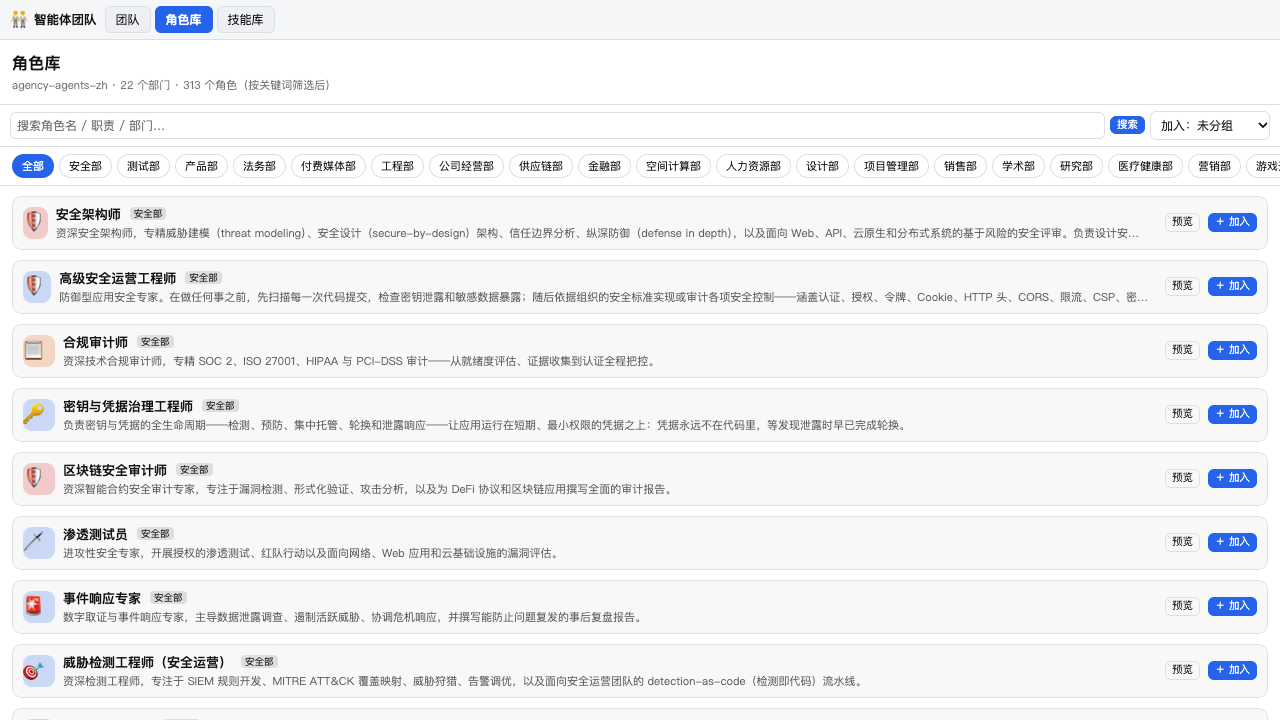
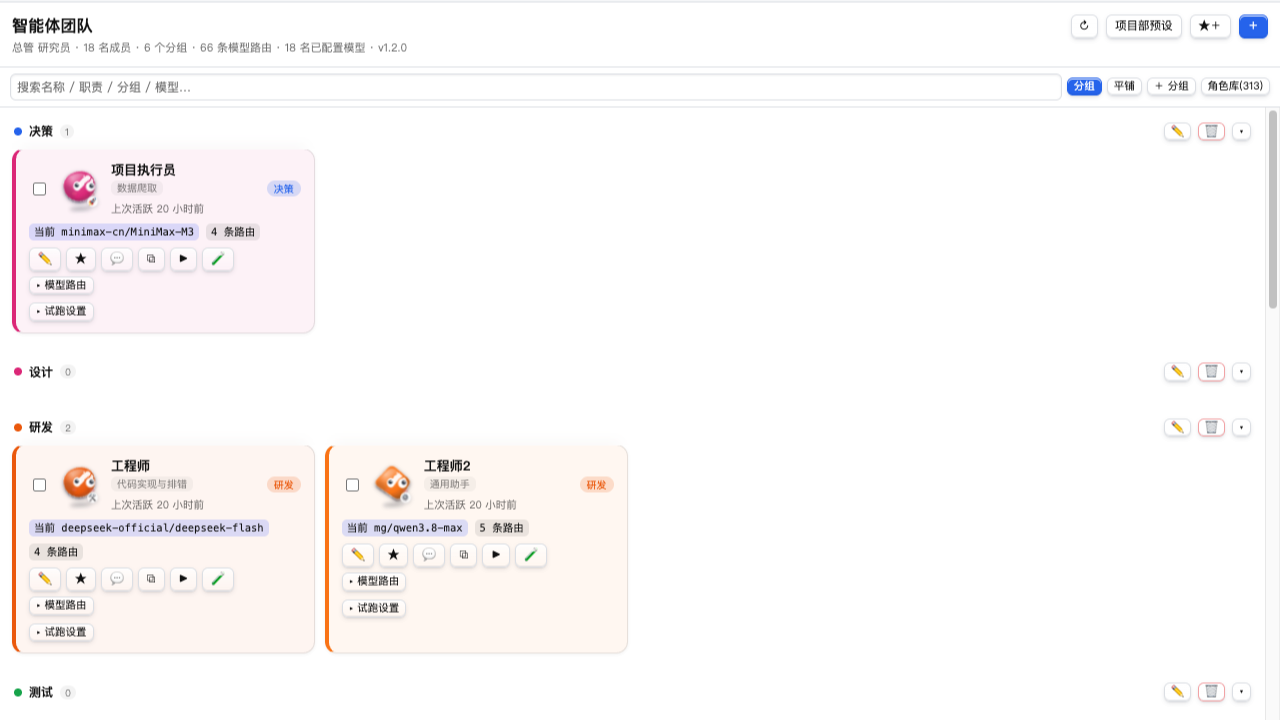
release: 2.55.1 — 市场协议字段 dsh.client.inject + 截图刷新

diff --git a/dsh/team.js b/dsh/team.js
@@ -60,7 +60,7 @@ const TRIGGER_DEFAULTS = { enabled: true, keywords: ['项目'], member: '' }
  *   看起来像装了另一个包——smoke-client.mjs 现在有断言把两者钉在一起。） */
 // 必须与 package.json 的 version 一致；scripts/smoke-client.mjs 会断言这一点，
 // 改了版本号忘改这里会直接冒烟失败（1.0.0 时就踩过一次）。
-const PLUGIN_VERSION = '2.55.0'
+const PLUGIN_VERSION = '2.55.1'
 
 /** 路由前缀。 */
 export const ROUTE_BASE = '/api/team-workbench'

diff --git a/README.md b/README.md
@@ -2,7 +2,7 @@
 
 一个 **DSH 网页客户端插件**（`dsh.client.platform = web`）：把具名智能体团队做成聊天应用。
 **2.6.0 起默认收在右下角胶囊**，DSH 自己的会话与输入框照常可用；点胶囊才铺满窗口，
-右上角「收起」再缩回胶囊。当前版本 **2.55.0**，在 **DSH Desktop 0.13.2**（macOS arm64）实测。
+右上角「收起」再缩回胶囊。当前版本 **2.55.1**，在 **DSH Desktop 0.13.2**（macOS arm64）实测。
 
 > 2.0.0 起不再是工作台（workbench）面板：客户端不调用 `desktopWorkbenches.register`，
 > 改为挂载到 `document.body`，因此能盖住宿主导航——与 DS-Bot 的做法一致。
@@ -46,17 +46,17 @@
 
 ## 安装
 
-2.55.0 是普通插件包（`dsh.bundle.patch` + `dsh.client.platform: web`），三种装法任选：
+2.55.1 是普通插件包（`dsh.bundle.patch` + `dsh.client.platform: web`），三种装法任选：
 
 ```bash
 # 1) 官方 CLI（推荐；会把包名写进 dsh.profile.bundles）
 DSH_HOME="$HOME/Library/Application Support/dsh-desktop/harness" \
   node "/Applications/DSH Desktop.app/Contents/Resources/app.asar/node_modules/@deepseek-ai/dsh/lib/bin.js" \
-  plugin --profile web add ./dsh-team-workbench-2.55.0.tgz
+  plugin --profile web add ./dsh-team-workbench-2.55.1.tgz
 
 # 2) 从 Release 直链装
 dsh plugin --profile web add \
-  https://github.com/narkco-kang/dsh-team-workbench/releases/download/v2.55.0/dsh-team-workbench.tgz
+  https://github.com/narkco-kang/dsh-team-workbench/releases/download/v2.55.1/dsh-team-workbench.tgz
 
 # 3) 卸载
 dsh plugin --profile web remove dsh-team-workbench
@@ -66,7 +66,7 @@ dsh plugin --profile web remove dsh-team-workbench
 
 装完**重启 Harness**（菜单 Harness → 重启 Harness），右下角会出现「🧑🤝🧑 智能体团队」胶囊；
 点开就是团队 App，点右上角「收起」回到 DSH。1.x 是工作台包，同一个包名，
-**先卸掉旧工作台再装 2.55.0**，否则两套入口会同时存在。
+**先卸掉旧工作台再装 2.55.1**，否则两套入口会同时存在。
 
 ## 包结构
 
@@ -205,7 +205,7 @@ node scripts/smoke-docs.mjs     # 本文档的测试项数与实跑对答案
 
 | 层次 | 覆盖情况 |
 | --- | --- |
-| 客户端注册与渲染 | `smoke-client.mjs`（结构 42 项）+ `render-client.mjs`（真实 React SSR 19 项） |
+| 客户端注册与渲染 | `smoke-client.mjs`（结构 41 项）+ `render-client.mjs`（真实 React SSR 19 项） |
 | 服务端注册与释放 | `smoke-server.mjs`（真执行 `apply()`，24 项：11 工具 / 25 路由、释放后登记表清空） |
 | 工具 `execute` 与路由 handler | `run-tools.mjs`（临时 HOME 内真调用，43 项） |
 | 会话功能 | `smoke-chat.mjs`（20 项：私聊连续追问、群聊 @、Auto 挑人、接力层数、工具调用、聊天记录检索） |

diff --git a/CHANGELOG.md b/CHANGELOG.md
@@ -1,5 +1,10 @@
 # CHANGELOG
 
+## 2.55.1 — 2026-11-07
+
+- 按上游市场协议补 `dsh.client.inject: ['dsh-desktop-workbenches']`（probe 校验必需）；
+- 刷新市场截图（team/chat 用 2.55 实测画面，1280×720）。
+
 ## 2.55.0 — 2026-11-07
 
 - 修 STT 400「unsupported audio format」：浏览器录的是 webm/opus，MiniMax 等云厂商不收；
